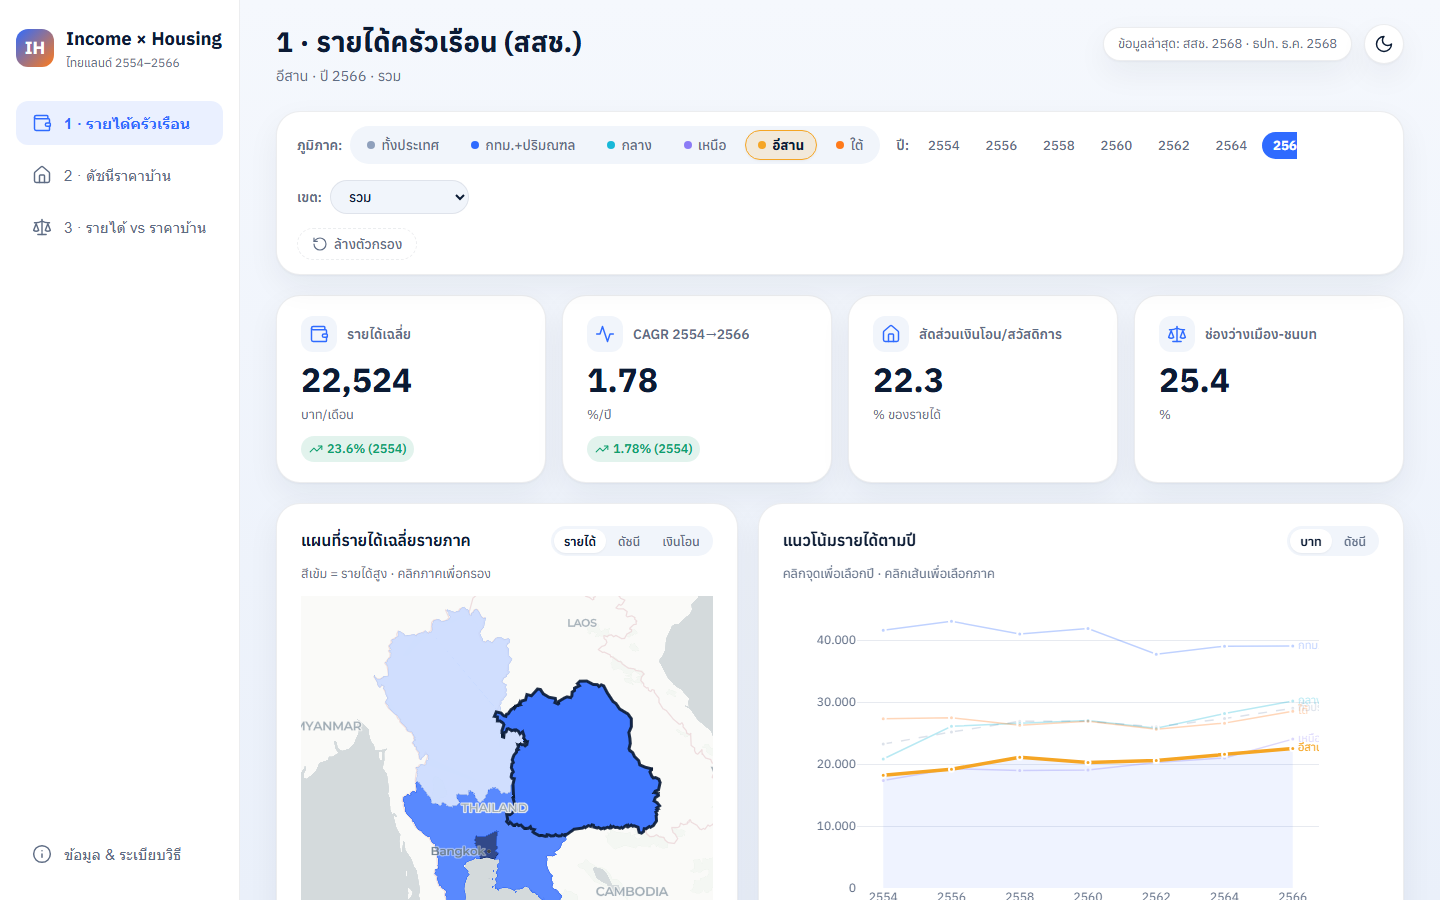
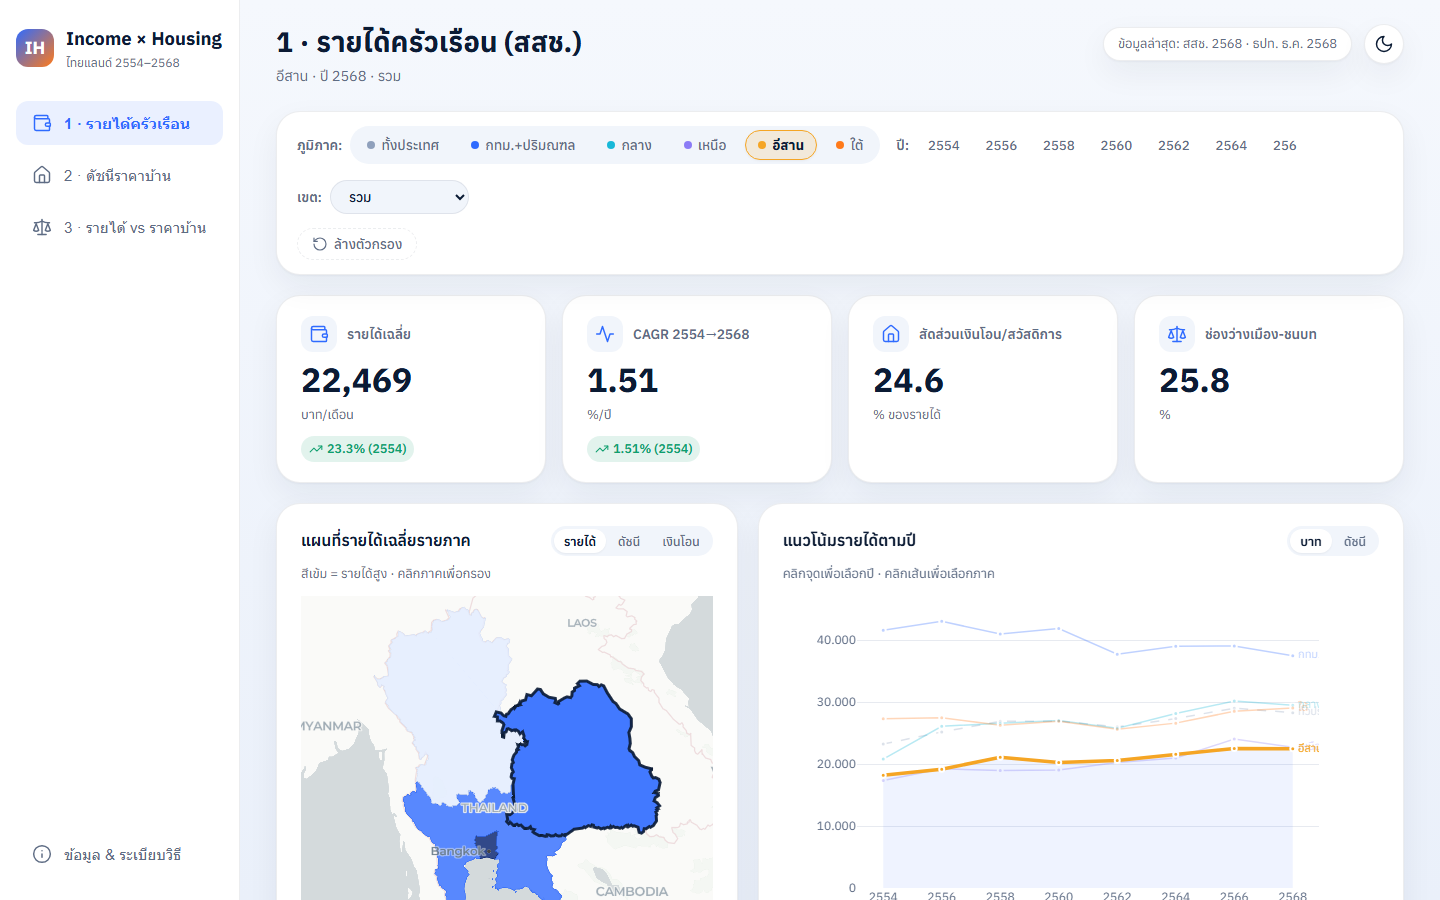
feat: expand graph and dashboard year range to 2554-2568

diff --git a/static/js/app.js b/static/js/app.js
@@ -8,9 +8,9 @@
   // ──────────────── State (Single Client Store) ────────────────
   const state = {
     tab: 1,
-    year: 2566,
+    year: 2568,
     y0: 2554,
-    y1: 2566,
+    y1: 2568,
     region: null,
     area: 0,
     pt: 1,
@@ -91,8 +91,8 @@
 
   function hasNonDefaultFilters() {
     if (state.region !== null) return true;
-    if (state.year !== 2566) return true;
-    if (state.y0 !== 2554 || state.y1 !== 2566) return true;
+    if (state.year !== 2568) return true;
+    if (state.y0 !== 2554 || state.y1 !== 2568) return true;
     if (state.tab === 1 && (state.area !== 0 || state.metric !== 'income')) return true;
     if (state.tab === 2 && (state.pt !== 1 || state.grain !== 'yearly' || state.metric !== 'hpi')) return true;
     if (state.tab === 3 && (state.pt !== 1 || state.cagr_view !== 'by_region')) return true;
@@ -336,9 +336,9 @@
         state.metric = state.tab === 2 ? 'hpi' : 'income';
         state.grain = 'yearly';
         state.cagr_view = 'by_region';
-        state.year = 2566;
+        state.year = 2568;
         state.y0 = 2554;
-        state.y1 = 2566;
+        state.y1 = 2568;
         updateUrl();
         renderControlBar();
         queueFetch();

diff --git a/app/templates/index.html b/app/templates/index.html
@@ -31,7 +31,7 @@
         <div class="brand-icon-box">IH</div>
         <div>
           <div>Income × Housing</div>
-          <div style="font-size: 0.75rem; color: var(--text-muted); font-weight: 400;">ไทยแลนด์ 2554–2566</div>
+          <div style="font-size: 0.75rem; color: var(--text-muted); font-weight: 400;">ไทยแลนด์ 2554–2568</div>
         </div>
       </a>
 

diff --git a/scripts/capture_screenshots.py b/scripts/capture_screenshots.py
@@ -48,42 +48,42 @@ def capture():
 
         # 1. Tab 1 Light Default
         print("Capturing 01_tab1_light_default.png...")
-        page.goto(f"{base_url}/?tab=1&theme=light&year=2566", wait_until="networkidle")
+        page.goto(f"{base_url}/?tab=1&theme=light&year=2568", wait_until="networkidle")
         page.wait_for_selector("#plot-choropleth .plot-container", timeout=15000)
         time.sleep(1.5)
         page.screenshot(path=str(SCREENSHOTS_DIR / "01_tab1_light_default.png"))
 
         # 2. Tab 1 Light Isan (region 4)
         print("Capturing 02_tab1_light_isan.png...")
-        page.goto(f"{base_url}/?tab=1&theme=light&year=2566&region=4", wait_until="networkidle")
+        page.goto(f"{base_url}/?tab=1&theme=light&year=2568&region=4", wait_until="networkidle")
         page.wait_for_selector("#plot-choropleth .plot-container", timeout=15000)
         time.sleep(1.5)
         page.screenshot(path=str(SCREENSHOTS_DIR / "02_tab1_light_isan.png"))
 
         # 3. Tab 1 Dark Default
         print("Capturing 03_tab1_dark_default.png...")
-        page.goto(f"{base_url}/?tab=1&theme=dark&year=2566", wait_until="networkidle")
+        page.goto(f"{base_url}/?tab=1&theme=dark&year=2568", wait_until="networkidle")
         page.wait_for_selector("#plot-choropleth .plot-container", timeout=15000)
         time.sleep(1.5)
         page.screenshot(path=str(SCREENSHOTS_DIR / "03_tab1_dark_default.png"))
 
         # 4. Tab 2 Light Default
         print("Capturing 04_tab2_light_default.png...")
-        page.goto(f"{base_url}/?tab=2&theme=light&year=2566", wait_until="networkidle")
+        page.goto(f"{base_url}/?tab=2&theme=light&year=2568", wait_until="networkidle")
         page.wait_for_selector("#plot-choropleth .plot-container", timeout=15000)
         time.sleep(1.5)
         page.screenshot(path=str(SCREENSHOTS_DIR / "04_tab2_light_default.png"))
 
         # 5. Tab 2 Dark Default
         print("Capturing 05_tab2_dark_default.png...")
-        page.goto(f"{base_url}/?tab=2&theme=dark&year=2566", wait_until="networkidle")
+        page.goto(f"{base_url}/?tab=2&theme=dark&year=2568", wait_until="networkidle")
         page.wait_for_selector("#plot-choropleth .plot-container", timeout=15000)
         time.sleep(1.5)
         page.screenshot(path=str(SCREENSHOTS_DIR / "05_tab2_dark_default.png"))
 
         # 6. Tab 3 Dark Default (Bonus verification)
         print("Capturing 06_tab3_dark_default.png...")
-        page.goto(f"{base_url}/?tab=3&theme=dark&y0=2554&y1=2566", wait_until="networkidle")
+        page.goto(f"{base_url}/?tab=3&theme=dark&y0=2554&y1=2568", wait_until="networkidle")
         page.wait_for_selector("#plot-hero .plot-container", timeout=15000)
         time.sleep(1.5)
         page.screenshot(path=str(SCREENSHOTS_DIR / "06_tab3_dark_default.png"))

diff --git a/app/main.py b/app/main.py
@@ -129,7 +129,7 @@ def _handle_tab1(f: Filters) -> dict:
     )
 
     # Chart 1B: Trend (Straight line, categories matching survey years)
-    trend_data = db.query_tab1_trend(area, y0, y1)
+    trend_data = db.query_tab1_trend(area, 2554, 2568)
     fig_1c = fig_tab1.fig_trend(
         trend_data,
         selected_region=region,
@@ -138,7 +138,7 @@ def _handle_tab1(f: Filters) -> dict:
     )
 
     # Chart 1C: Urban-Rural Heatmap
-    heatmap_data = db.query_tab1_heatmap(y0, y1)
+    heatmap_data = db.query_tab1_heatmap(2554, 2568)
     fig_1d = fig_tab1.fig_heatmap(
         heatmap_data,
         selected_region=region,
@@ -284,14 +284,14 @@ def _handle_tab2(f: Filters) -> dict:
 
     # Chart 2B: Trend
     if grain == "monthly":
-        trend_data = db.query_tab2_trend_monthly(pt, y0, y1)
+        trend_data = db.query_tab2_trend_monthly(pt, 2554, 2568)
         fig_2b = fig_tab2.fig_trend(trend_data, selected_region=region, theme=theme, is_monthly=True)
     else:
-        trend_data = db.query_tab2_trend_annual(pt, y0, y1)
+        trend_data = db.query_tab2_trend_annual(pt, 2554, 2568)
         fig_2b = fig_tab2.fig_trend(trend_data, selected_region=region, theme=theme, is_monthly=False)
 
     # Chart 2C: Heatmap YoY
-    heatmap_data = db.query_tab2_heatmap(pt, y0, y1)
+    heatmap_data = db.query_tab2_heatmap(pt, 2554, 2568)
     fig_2c = fig_tab2.fig_heatmap(heatmap_data, selected_region=region, selected_year=year, theme=theme)
 
     return {

diff --git a/tests/test_metrics.py b/tests/test_metrics.py
@@ -165,9 +165,9 @@ def test_filter_validation():
     """Test filter validation rules."""
     # Valid default filters
     f = Filters.from_params(tab=1)
-    assert f.year == 2566
+    assert f.year == 2568
     assert f.y0 == 2554
-    assert f.y1 == 2566
+    assert f.y1 == 2568
 
     # Valid custom
     f2 = Filters.from_params(tab=2, year=2567, pt=2, theme="light", grain="monthly")

diff --git a/app/filters.py b/app/filters.py
@@ -8,9 +8,9 @@ from typing import Optional
 @dataclass
 class Filters:
     tab: int = 1
-    year: int = 2566
+    year: int = 2568
     y0: int = 2554
-    y1: int = 2566
+    y1: int = 2568
     region: Optional[int] = None
     area: int = 0
     pt: int = 1

diff --git a/PROJECT_STATUS.md b/PROJECT_STATUS.md
@@ -1,6 +1,6 @@
 # 📋 Project Status — Income × Housing Dashboard
 
-> อัปเดตล่าสุด: 2026-10-23 16:30 (งานแก้ไขรอบ 2 สำเร็จครบ 100%)
+> อัปเดตล่าสุด: 2026-10-23 16:50 (ปรับช่วงเวลากราฟครอบคลุมปี 2554 ถึง 2568 สมบูรณ์)
 
 ---
 
@@ -8,6 +8,7 @@
 
 | รายการ | สถานะ |
 |--------|-------|
+| ช่วงเวลาในกราฟ (Year Range) | **ปี 2554 ถึง 2568** ครอบคลุมทุกรอบสำรวจและทุกชุดข้อมูล |
 | งานแก้ไขรอบ 2 (v2 Redesign & Bug Fixes) | **10 / 10 บั๊ก & 5 ข้อกำหนดหลัก** (100% ครบถ้วนสมบูรณ์) |
 | สถานะการทดสอบอัตโนมัติ (pytest) | 🚀 ผ่านทั้งหมด **20 / 20 tests** (100% Pass) |
 | ตรวจรับทางสายตา (Visual Verification) | 📸 บันทึกภาพหน้าจอขนาด 1440×900 ครบทั้ง 6 ภาพใน `docs/screenshots/` |
@@ -18,7 +19,7 @@
 ## ผลการดำเนินงานแก้ไขรอบ 2 (Round 2 Fixes)
 
 ### 1. แก้ไข 10 บั๊กจากรอบ 1 (ครบทุกข้อ)
-1. **ปีเริ่มต้นและ CAGR ปีฐาน:** ค่าเริ่มต้นเป็น `year=2566` (ช่วง 2554–2566) เมื่อเลือกปี 2554 KPI CAGR แสดง `"—"` (ปีฐาน) และซ่อนชิป delta
+1. **ปีเริ่มต้นและช่วงเวลาในกราฟ:** ปรับช่วงเวลาในกราฟทั้งหมดเป็นปี 2554 ถึง 2568 ครอบคลุมทั้ง 8 รอบสำรวจ SES ของ สสช. (2554, 2556, ..., 2568) และ 180 เดือนของ ธปท. (ม.ค. 2554 – ธ.ค. 2568) โดยเมื่อเลือกปีฐาน 2554 ค่า KPI CAGR จะแสดง `"—"` (ปีฐาน) และซ่อนชิป delta เปรียบเทียบ
 2. **สัดส่วน Treemap:** คำนวณเป็นส่วน ÷ ยอดรวมของ parent เดียวกันโดยตรง ขอบเขตทั่วประเทศใช้แถว `region_id = 0` ไม่มีการบวกสัดส่วน 5 ภาค ผลรวมหมวดหมู่ = 100.0% (สัดส่วนรายได้จากการทำงานทั่วประเทศปี 2566 = 70.5% ตรงตาม `expected_values.json`)
 3. **ชื่อกราฟไม่ซ้ำซ้อน:** กำหนด `layout.title = None` ทุกกราฟของ Plotly ใช้หัวการ์ด HTML อย่างเดียว
 4. **Header ไม่ถูกตัด:** แก้ไข `padding-top` และ sticky header ให้แสดงผล "1 · รายได้ครัวเรือน (สสช.)" สมบูรณ์ ไม่ทับเนื้อหา
